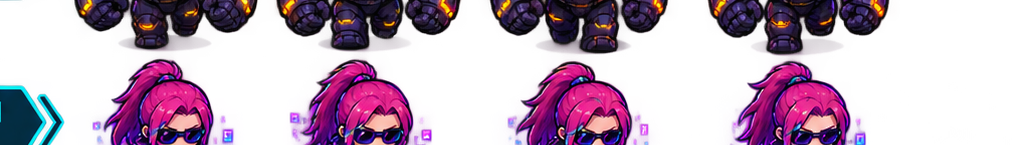
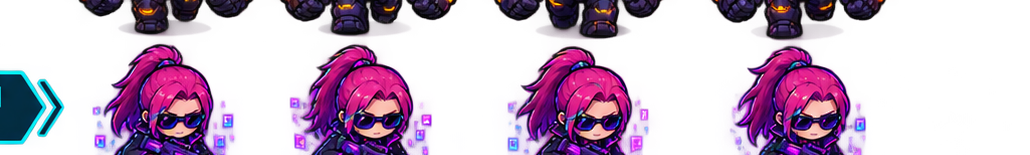
v2.2: 修复精灵图裁剪边界+拾取音效独立音量设置

diff --git a/app/src/main/java/com/grasscut/game/game/GameView.kt b/app/src/main/java/com/grasscut/game/game/GameView.kt
@@ -187,19 +187,8 @@ class GameView(context: Context, attrs: AttributeSet? = null) : SurfaceView(cont
     private fun playSound(name: String) {
         if (!soundReady || !Settings.soundEnabled) return
         soundIds[name]?.let { id ->
-            // 不同音效不同音量倍率，避免拾取等高频音效太吵
-            val volMultiplier = when (name) {
-                "pickup" -> 0.25f
-                "shoot" -> 0.6f
-                "hit" -> 0.5f
-                "hurt" -> 0.7f
-                "levelup" -> 0.8f
-                "death" -> 0.9f
-                "victory" -> 0.9f
-                "warning" -> 0.8f
-                else -> 0.7f
-            }
-            val vol = Settings.soundVolume * volMultiplier
+            // 拾取音效使用独立音量设置，其他音效使用主音量
+            val vol = if (name == "pickup") Settings.pickupVolume else Settings.soundVolume
             soundPool.play(id, vol, vol, 1, 0, 1f)
         }
     }
@@ -798,6 +787,12 @@ class GameView(context: Context, attrs: AttributeSet? = null) : SurfaceView(cont
             Settings.soundVolume < 0.85f -> "中"
             else -> "高"
         }
+        val pickupText = when {
+            Settings.pickupVolume <= 0.01f -> "关"
+            Settings.pickupVolume < 0.2f -> "低"
+            Settings.pickupVolume < 0.4f -> "中"
+            else -> "高"
+        }
         val joyText = when {
             Settings.joystickSize < 0.9f -> "小"
             Settings.joystickSize < 1.15f -> "中"
@@ -805,7 +800,8 @@ class GameView(context: Context, attrs: AttributeSet? = null) : SurfaceView(cont
         }
         val items = listOf(
             Triple("音效", if (Settings.soundEnabled) "开" else "关", "sound"),
-            Triple("音量", volText, "volume"),
+            Triple("主音量", volText, "volume"),
+            Triple("拾取音量", pickupText, "pickup"),
             Triple("粒子特效", if (Settings.particlesEnabled) "开" else "关", "particles"),
             Triple("伤害数字", if (Settings.damageNumbers) "开" else "关", "damage"),
             Triple("屏幕震动", if (Settings.screenShake) "开" else "关", "shake"),
@@ -852,7 +848,7 @@ class GameView(context: Context, attrs: AttributeSet? = null) : SurfaceView(cont
         val startY = h * 0.15f
         val rowW = w * 0.9f
         val rowX = w * 0.05f
-        val keys = listOf("sound", "volume", "particles", "damage", "shake", "joystick")
+        val keys = listOf("sound", "volume", "pickup", "particles", "damage", "shake", "joystick")
 
         for ((i, key) in keys.withIndex()) {
             val ry = startY + i * rowH
@@ -866,7 +862,17 @@ class GameView(context: Context, attrs: AttributeSet? = null) : SurfaceView(cont
                             else -> 0.3f
                         }
                         Settings.setSoundVolume(next)
-                        if (Settings.soundEnabled) playSound("pickup")
+                        if (Settings.soundEnabled) playSound("shoot")
+                    }
+                    "pickup" -> {
+                        val next = when {
+                            Settings.pickupVolume <= 0.01f -> 0.15f
+                            Settings.pickupVolume < 0.2f -> 0.3f
+                            Settings.pickupVolume < 0.4f -> 0.5f
+                            else -> 0f
+                        }
+                        Settings.setPickupVolume(next)
+                        if (Settings.soundEnabled && next > 0) playSound("pickup")
                     }
                     "particles" -> Settings.setParticlesEnabled(!Settings.particlesEnabled)
                     "damage" -> Settings.setDamageNumbers(!Settings.damageNumbers)

diff --git a/app/src/main/java/com/grasscut/game/game/Settings.kt b/app/src/main/java/com/grasscut/game/game/Settings.kt
@@ -12,6 +12,7 @@ object Settings {
     // 设置项 key
     private const val KEY_SOUND_ENABLED = "sound_enabled"
     private const val KEY_SOUND_VOLUME = "sound_volume"
+    private const val KEY_PICKUP_VOLUME = "pickup_volume"
     private const val KEY_PARTICLES_ENABLED = "particles_enabled"
     private const val KEY_DAMAGE_NUMBERS = "damage_numbers"
     private const val KEY_SCREEN_SHAKE = "screen_shake"
@@ -21,6 +22,8 @@ object Settings {
     var soundEnabled: Boolean = true
         private set
     var soundVolume: Float = 0.6f
+        private set
+    var pickupVolume: Float = 0.3f
         private set
     var particlesEnabled: Boolean = true
         private set
@@ -37,6 +40,7 @@ object Settings {
         prefs = context.getSharedPreferences(PREF_NAME, Context.MODE_PRIVATE)
         soundEnabled = prefs.getBoolean(KEY_SOUND_ENABLED, true)
         soundVolume = prefs.getFloat(KEY_SOUND_VOLUME, 0.6f)
+        pickupVolume = prefs.getFloat(KEY_PICKUP_VOLUME, 0.3f)
         particlesEnabled = prefs.getBoolean(KEY_PARTICLES_ENABLED, true)
         damageNumbers = prefs.getBoolean(KEY_DAMAGE_NUMBERS, true)
         screenShake = prefs.getBoolean(KEY_SCREEN_SHAKE, true)
@@ -45,6 +49,7 @@ object Settings {
 
     fun setSoundEnabled(v: Boolean) { soundEnabled = v; prefs.edit().putBoolean(KEY_SOUND_ENABLED, v).apply() }
     fun setSoundVolume(v: Float) { soundVolume = v; prefs.edit().putFloat(KEY_SOUND_VOLUME, v).apply() }
+    fun setPickupVolume(v: Float) { pickupVolume = v; prefs.edit().putFloat(KEY_PICKUP_VOLUME, v).apply() }
     fun setParticlesEnabled(v: Boolean) { particlesEnabled = v; prefs.edit().putBoolean(KEY_PARTICLES_ENABLED, v).apply() }
     fun setDamageNumbers(v: Boolean) { damageNumbers = v; prefs.edit().putBoolean(KEY_DAMAGE_NUMBERS, v).apply() }
     fun setScreenShake(v: Boolean) { screenShake = v; prefs.edit().putBoolean(KEY_SCREEN_SHAKE, v).apply() }
